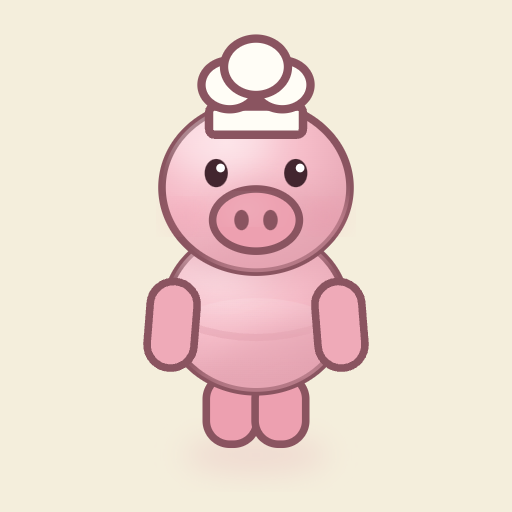
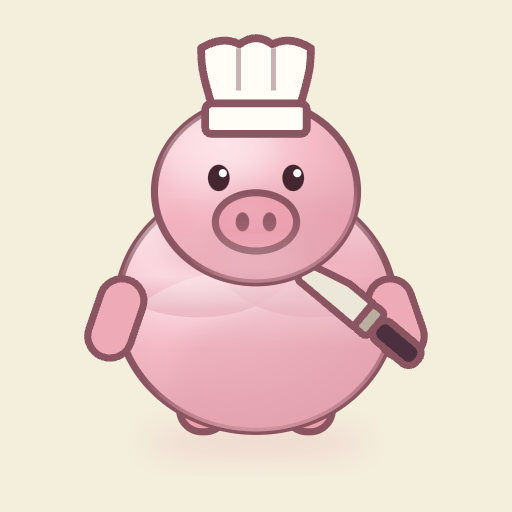
Put the knife in the hand, the toque on the head, and suits on four pigs
The knife is held across the front of the body rather than out at arm's
length, and held objects are now drawn after the arms so they sit in the
trotter instead of behind it. Its grip tracks the hand through the arm's
splay, so it stays gripped as the pig widens.

The chef's hat is a proper tall toque — pleated, over a stiff band —
rather than three circles that read as candyfloss above pin size. Its
height is clamped to the room above the head, since the viewBox is fixed
and a big head sits higher.

The sign-in pig is now the humungous one, larger, and the app icon is
regenerated from it, so the widget carries the knife too.

Suits are invitation only: four display names see the option, everyone
else never does, and it's matched on the saved name so it can't be
unlocked by typing someone else's into the box. Sir Piggiam's is the
open-necked one — undone to the sternum with the chest showing — which
is why it's a separate costume value rather than a variant he'd have to
find. Anything already saved still draws; only the picker is gated.

Changed region(s): [[0.1562, 0.0625, 0.8438, 0.875], [0.375, 0.3125, 0.625, 0.4688]]

diff --git a/frontend/components/pigs/Costume.tsx b/frontend/components/pigs/Costume.tsx
@@ -44,6 +44,8 @@ const LEMON = "#E6D389";
 const PLUM = "#914E56";
 const RUST = "#A9503C";
 const INK = "#4D303F";
+/** Darker than INK and cooler — a suit has to out-rank the outline. */
+const CHARCOAL = "#3A2530";
 
 export function costumeParts(costume: string, outline: string): CostumeParts {
   const s = { stroke: outline, strokeWidth: 2.1, strokeLinejoin: "round" as const };
@@ -289,6 +291,86 @@ export function costumeParts(costume: string, outline: string): CostumeParts {
           </>
         ),
       };
+
+    // --- suits ------------------------------------------------------------
+    // Not on general release (see SUIT_WEARERS in lib/pig.ts). Both are the
+    // same jacket; what changes is what's underneath, so they share everything
+    // but the shirt.
+    case "suit":
+    case "suitopen": {
+      const open = costume === "suitopen";
+      return {
+        sleeve: CHARCOAL,
+        cuff: CREAM,
+        shell: { fill: CHARCOAL },
+        onBody: (
+          <>
+            {/* Chest, drawn first so the shirt's neckline cuts a hole down to
+                it. Only the open shirt leaves any of it showing — and it has to
+                be a wide hole, or the lapels close over it and the whole point
+                of the costume disappears. */}
+            {open && (
+              <g stroke={outline} strokeWidth="2" fill="none" strokeLinecap="round">
+                <path d="M59 66 q3.5 -5 7 -0.5 q3.5 -5 7 0.5" />
+                <path d="M60 73 q3.5 -5 7 -0.5 q3.5 -5 6 0.5" />
+                <path d="M61.5 80 q3.5 -5 7 -0.5" />
+                <path d="M63 87 q3 -4.5 6 -0.5" />
+              </g>
+            )}
+            <path
+              d={
+                open
+                  ? "M53 56 L57 56 L65 90 L73 56 L77 56 L72 106 L58 106 Z"
+                  : "M55 56 L75 56 L72 106 L58 106 Z"
+              }
+              fill={CREAM}
+              {...s}
+            />
+            {open ? (
+              // Collar falling open either side of the gap.
+              <>
+                <path d="M57 56 L65 90 L51 67 Z" fill={CREAM} {...s} />
+                <path d="M73 56 L65 90 L79 67 Z" fill={CREAM} {...s} />
+              </>
+            ) : (
+              <>
+                {/* Placket and buttons — the shirt has to have a front or it
+                    reads as a bib under the lapels. */}
+                <path d="M65 60 v44" stroke={outline} strokeWidth="1.4" opacity="0.45" fill="none" />
+                <circle cx="65" cy="92" r="1.5" fill={outline} />
+                <circle cx="65" cy="100" r="1.5" fill={outline} />
+              </>
+            )}
+          </>
+        ),
+        overArms: (
+          <>
+            {/* Lapels: a notched V from each shoulder down to the button. The
+                open suit's stop short of the centre line, which is what leaves
+                the chest showing between them. */}
+            {open ? (
+              <>
+                <path d="M46 56 Q51 72 59 88 L61 77 Q55 65 54 55 Z" fill={CHARCOAL} {...s} />
+                <path d="M84 56 Q79 72 71 88 L69 77 Q75 65 76 55 Z" fill={CHARCOAL} {...s} />
+              </>
+            ) : (
+              <>
+                <path d="M47 56 Q54 74 65 88 L65 76 Q57 64 55 55 Z" fill={CHARCOAL} {...s} />
+                <path d="M83 56 Q76 74 65 88 L65 76 Q73 64 75 55 Z" fill={CHARCOAL} {...s} />
+                {/* Tie, knotted into the collar and hanging to the button.
+                    Short and broad: a long thin one reads as a spike once the
+                    body scales it up. */}
+                <path d="M61 59 L69 59 L70.5 67 L59.5 67 Z" fill={RUST} {...s} />
+                <path d="M60 67 L70 67 L67.5 84 L65 88 L62.5 84 Z" fill={RUST} {...s} />
+              </>
+            )}
+            {/* Jacket button, and a pocket square on the left breast. */}
+            <circle cx="65" cy="92" r="2.2" fill={GOLD} stroke={outline} strokeWidth="1.5" />
+            <path d="M48 76 l4 -4 4 4 Z" fill={CREAM} stroke={outline} strokeWidth="1.5" />
+          </>
+        ),
+      };
+    }
 
     default:
       return {};

diff --git a/frontend/components/pigs/PigAvatar.tsx b/frontend/components/pigs/PigAvatar.tsx
@@ -332,12 +332,6 @@ export default function PigAvatar({
         </g>
       )}
 
-      {/* Whatever they're holding. `holding` is the prop the logo and sign-in
-          pig use; otherwise it comes from the saved avatar. */}
-      {(holding ?? (cfg.held !== "none" ? cfg.held : null)) && (
-        <Held item={(holding ?? cfg.held) as string} armX={armX} />
-      )}
-
       {dress.under && <g transform={bodyT}>{dress.under}</g>}
       {dress.shell && <Shell fill={dress.shell.fill} k={dress.shell.k} />}
       {dress.onBody && <g transform={bodyT}>{dress.onBody}</g>}
@@ -382,6 +376,13 @@ export default function PigAvatar({
           );
         })}
       </g>
+
+      {/* Whatever they're holding — drawn after the arms so it sits in the
+          trotter rather than behind it. `holding` is the prop the logo and
+          sign-in pig use; otherwise it comes from the saved avatar. */}
+      {(holding ?? (cfg.held !== "none" ? cfg.held : null)) && (
+        <Held item={(holding ?? cfg.held) as string} armX={armX} />
+      )}
 
       {dress.overArms && <g transform={bodyT}>{dress.overArms}</g>}
       {dress.behindHead && <g transform={headT}>{dress.behindHead}</g>}
@@ -593,15 +594,41 @@ function Hat({ hat, cx, topY, w, outline }: { hat: string; cx: number; topY: num
           <circle cx={cx} cy={topY + 4} r={w * 0.09} fill="#914E56" stroke="none" />
         </g>
       );
-    case "chef":
+    case "chef": {
+      // A proper toque: a tall column that flares a little as it rises, gathered
+      // into soft pleats across the top, over a stiff band. The old cloud of
+      // three circles read as candyfloss at any size above a map pin.
+      const bandY = topY + 5;
+      // As tall as the head allows: the viewBox is fixed, so on a big head —
+      // which sits higher — the crown is clamped rather than cropped.
+      const h = Math.min(w * 0.95, bandY - 3);
+      const bw = w * 0.42;             // half-width where it meets the band
+      const tw = w * 0.54;             // half-width at the gathered top
+      const capY = bandY - h;
       return (
         <g {...s}>
-          <rect x={cx - w * 0.5} y={topY + 5} width={w} height={w * 0.3} rx={w * 0.06} fill="#FFFDF6" />
-          <ellipse cx={cx - w * 0.28} cy={topY - 1} rx={w * 0.3} ry={w * 0.26} fill="#FFFDF6" />
-          <ellipse cx={cx + w * 0.28} cy={topY - 1} rx={w * 0.3} ry={w * 0.26} fill="#FFFDF6" />
-          <ellipse cx={cx} cy={topY - 6} rx={w * 0.34} ry={w * 0.3} fill="#FFFDF6" />
+          <path
+            d={`M ${cx - bw} ${bandY + 2}
+                C ${cx - tw} ${bandY - h * 0.5} ${cx - tw} ${bandY - h * 0.62} ${cx - tw} ${capY + h * 0.14}
+                Q ${cx - tw * 0.62} ${capY - h * 0.06} ${cx - tw * 0.3} ${capY + h * 0.08}
+                Q ${cx} ${capY - h * 0.11} ${cx + tw * 0.3} ${capY + h * 0.08}
+                Q ${cx + tw * 0.62} ${capY - h * 0.06} ${cx + tw} ${capY + h * 0.14}
+                C ${cx + tw} ${bandY - h * 0.62} ${cx + tw} ${bandY - h * 0.5} ${cx + bw} ${bandY + 2} Z`}
+            fill="#FFFDF6"
+          />
+          {/* Pleats — the vertical gathers that make it a toque and not a tube. */}
+          <path
+            d={`M ${cx - tw * 0.32} ${capY + h * 0.14} v ${h * 0.66}
+                M ${cx + tw * 0.32} ${capY + h * 0.14} v ${h * 0.66}`}
+            stroke={outline}
+            strokeWidth="1.5"
+            opacity="0.45"
+            fill="none"
+          />
+          <rect x={cx - w * 0.5} y={bandY} width={w} height={w * 0.3} rx={w * 0.06} fill="#FFFDF6" />
         </g>
       );
+    }
     case "tophat":
       // Tall crown, hard brim, and a band picked out in the gold so it doesn't
       // read as a solid black block at pin size.

diff --git a/frontend/lib/pig.ts b/frontend/lib/pig.ts
@@ -236,6 +236,8 @@ export const PIG_COSTUMES = [
   "hoodie", "puffer", "dungarees",
   "princess", "pirate", "raver", "astronaut", "superhero", "ninja",
   "dinosaur", "rockstar", "chef",
+  // Invitation only — see SUIT_WEARERS.
+  "suit", "suitopen",
 ] as const;
 export type Costume = (typeof PIG_COSTUMES)[number];
 
@@ -244,7 +246,41 @@ export const COSTUME_LABELS: Record<Costume, string> = {
   princess: "princess", pirate: "pirate", raver: "raver", astronaut: "astronaut",
   superhero: "superhero", ninja: "ninja", dinosaur: "dinosaur",
   rockstar: "rockstar", chef: "chef",
+  // Both read as "suit" in the picker — nobody is offered a choice between
+  // them, they just get the one that's theirs.
+  suit: "suit", suitopen: "suit",
 };
+
+/**
+ * The suit is not on general release. These four wear it; everyone else never
+ * sees the option. Matched on the saved display name, folded and trimmed, so
+ * capitalisation doesn't lock anyone out of their own suit.
+ *
+ * Sir Piggiam's is the open-necked one, which is why the value differs — the
+ * costume he's offered *is* the unbuttoned shirt, rather than a variant he has
+ * to go and find.
+ */
+const SUIT_WEARERS: Record<string, Costume> = {
+  "look sharp": "suit",
+  "princess ceo piggy": "suit",
+  "glorious chairman oink": "suit",
+  "sir piggiam": "suitopen",
+};
+
+/** Which suit this display name is entitled to, if any. */
+export function suitFor(displayName?: string | null): Costume | null {
+  return SUIT_WEARERS[(displayName ?? "").trim().toLowerCase()] ?? null;
+}
+
+/**
+ * The costume list to *offer* someone. Everything already saved still draws —
+ * this only gates the picker, so a suit can't be lost by someone else opening
+ * their profile.
+ */
+export function costumesFor(displayName?: string | null): Costume[] {
+  const suit = suitFor(displayName);
+  return PIG_COSTUMES.filter((c) => (c === "suit" || c === "suitopen" ? c === suit : true));
+}
 
 /** The hat each costume suggests, applied only when the hat slot is empty. */
 export const COSTUME_HAT: Partial<Record<Costume, string>> = {

diff --git a/frontend/components/pigs/Held.tsx b/frontend/components/pigs/Held.tsx
@@ -27,14 +27,30 @@ export default function Held({ item, armX }: { item: string; armX: number }) {
   const s = { stroke: OUTLINE, strokeWidth: STROKE, strokeLinejoin: "round" as const };
 
   switch (item) {
-    case "knife":
+    case "knife": {
+      // Held across the front of the body rather than out at arm's length, so
+      // it reads as pointed at whoever's looking. The grip tracks the hand
+      // through the arm's splay — the arms swing further out the fatter the
+      // pig, and a knife left at the shoulder's x would drift out of the
+      // trotter. Same constants as the arm rotation in PigAvatar.
+      const splay = (Math.max(0, (armX - 20) * 0.9) * Math.PI) / 180;
+      // Gripped at the inner edge of the trotter rather than its centre, so the
+      // hand still reads either side of the handle instead of vanishing under
+      // it, and the blade crosses the belly rather than the arm.
+      const gx = 65 + armX - 7 + 14 * Math.sin(splay);
+      const gy = 77 + 14 * Math.cos(splay);
       return (
-        <g {...s} transform={`rotate(28 ${hx + 3} 80)`}>
-          <rect x={hx} y="74" width="7" height="15" rx="3" fill={INK} />
-          <rect x={hx - 1} y="70" width="9" height="5" rx="1.5" fill={STEEL} />
-          <path d={`M ${hx - 1} 70 L ${hx - 1} 38 L ${hx + 4} 31 L ${hx + 8} 54 L ${hx + 8} 70 Z`} fill={BLADE} />
+        <g {...s} transform={`rotate(-50 ${gx} ${gy})`}>
+          <rect x={gx - 3.5} y={gy - 4} width="7" height="16" rx="3" fill={INK} />
+          <rect x={gx - 4.5} y={gy - 9} width="9" height="5" rx="1.5" fill={STEEL} />
+          <path
+            d={`M ${gx - 4.5} ${gy - 9} L ${gx - 4.5} ${gy - 30} L ${gx} ${gy - 36}
+                L ${gx + 4.5} ${gy - 18} L ${gx + 4.5} ${gy - 9} Z`}
+            fill={BLADE}
+          />
         </g>
       );
+    }
 
     case "guitar":
       return (

diff --git a/frontend/app/profile/[username]/page.tsx b/frontend/app/profile/[username]/page.tsx
@@ -21,7 +21,7 @@ import {
   PIG_SPECIES,
   SPECIES_COLORS,
   SPECIES_DEFAULT_COLOR,
-  PIG_COSTUMES,
+  costumesFor,
   PIG_FACES,
   COSTUME_LABELS,
   COSTUME_HAT,
@@ -380,7 +380,9 @@ function PigCustomiser({
         />
         <Picker
           label="costume"
-          options={[...PIG_COSTUMES]}
+          // Off the saved name rather than the field above it, so the suit
+          // can't be unlocked by typing someone else's name into the box.
+          options={costumesFor(user.display_name)}
           value={cfg.costume}
           onChange={(v) =>
             setCfg({

diff --git a/frontend/app/sign-in/page.tsx b/frontend/app/sign-in/page.tsx
@@ -41,9 +41,9 @@ function SignInForm() {
     <main className="flex min-h-screen flex-col items-center justify-center px-5 py-10">
       <div className="mb-5 flex flex-col items-center">
         <PigAvatar
-          size={92}
+          size={140}
           variant="full"
-          placesLogged={18}
+          placesLogged={42}
           holding="knife"
           config={{ color: "pink", hat: "chef" }}
         />
